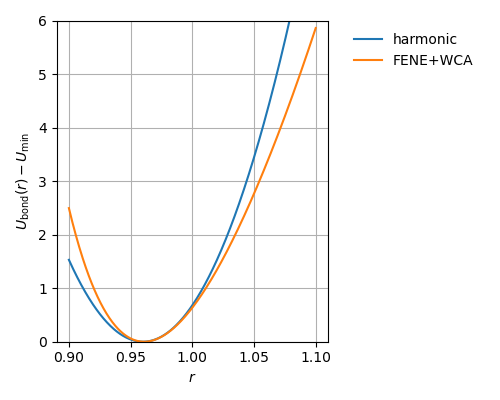
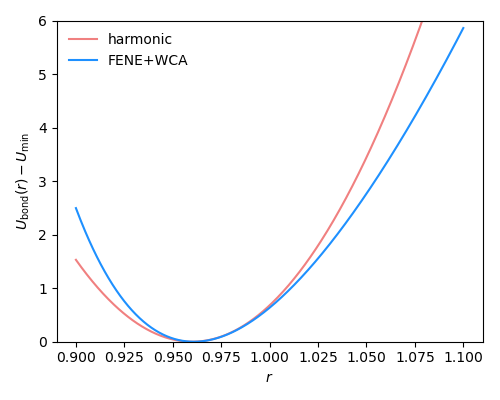
add matplotlib default light/dark

diff --git a/_static/myadmonitions.css b/_static/myadmonitions.css
@@ -1,0 +1,25 @@
+div.admonition-extra-credit {
+    border-left-color: rgba(0, 246, 16, 1);
+}
+
+div.admonition-extra-credit .admonition-title {
+    background-color: rgba(0, 246, 16, .1);
+}
+
+div.admonition-extra-credit .admonition-title:before {
+    color: rgba(0, 246, 16, 1);
+    content: '\f19d';
+}
+
+div.extra-credit {
+    border-left-color: rgba(var(--pst-color-success), 1);
+}
+
+div.extra-credit .admonition-title {
+    background-color: rgba(var(--pst-color-success), .1)
+}
+
+div.extra-credit .admonition-title:before {
+    color: rgba(var(--pst-color-success), 1);
+    content: '\f19d';
+}

diff --git a/_static/myfile.css b/_static/myfile.css
@@ -1,0 +1,31 @@
+h1,
+h2,
+h3,
+h4,
+h5,
+h6 {
+    font-weight: 700 !important;
+    /*color: #3c8cba !important;*/
+    /* margin: 0.2rem 0 0 0 ; */
+}
+
+h1 {
+    font-size: 2rem;
+}
+
+h2 {
+    font-size: 1.5rem;
+}
+
+h3 {
+    font-size: 1.2rem;
+}
+
+h4 {
+    font-size: 1.1rem;
+}
+
+p {
+    margin: 0.2rem 0 0 0;
+    text-align: justify;
+}

diff --git a/molecular-models-and-interactions/intramolecular-potentials.md b/molecular-models-and-interactions/intramolecular-potentials.md
@@ -106,6 +106,7 @@ This fixes the bond length to fluctuate around an average of $r_0$.
 :tags: [hide-cell]
 from myst_nb import glue
 import matplotlib.pyplot as plt
+plt.style.use(['../_matplotlib/book.mplstyle'])
 import numpy as np
 
 # Harmonic bond potential
@@ -123,25 +124,23 @@ r_values = np.linspace(0.5, 1.5, 100)
 U_values = harmonic_bond_potential(r_values, k, r0)
 F_values = harmonic_bond_force(r_values, k, r0)
 
-fig, axs = plt.subplots(1, 2, figsize=(5,2.5))
+fig, axs = plt.subplots(1, 2, figsize=(6,3.5))
 
-axs[0].plot(r_values, U_values)
-axs[0].axvline(x=r0, color='r', linestyle='--', label='$r_0$')
+axs[0].plot(r_values, U_values,c='lightcoral')
+axs[0].axvline(x=r0, linestyle='--',c='dodgerblue', label='$r_0$')
 axs[0].set_xlabel('$r$')
 axs[0].set_ylabel('$U_{\mathrm{bond}}(r)$')
 axs[0].set_title('Harmonic Bond Potential')
 axs[0].legend(frameon=False)
-axs[0].grid(True)
 
-axs[1].plot(r_values, F_values,c='green')
-axs[1].axvline(x=r0, color='r', linestyle='--', label='$r_0$')
+axs[1].plot(r_values, F_values,c='seagreen')
+axs[1].axvline(x=r0, linestyle='--',c='dodgerblue', label='$r_0$')
 axs[1].set_xlabel('$r$')
 axs[1].set_ylabel('$F_{\mathrm{bond}}(r)$')
 axs[1].set_title('Harmonic Bond Force')
 axs[1].legend(frameon=False)
-axs[1].grid(True)
-plt.tight_layout()
-plt.savefig('./_figures/harmonic_bond.png',transparent=True)
+
+plt.savefig('./_figures/harmonic_bond.png')
 ```
 
 ````{example} Harmonic bond force
@@ -158,7 +157,7 @@ If $r_{ij}>r_0$, the bond is streched past $r_0$ and particle $i$ moves toward $
 
 ```{figure} ./_figures/harmonic_bond.png
 :alt: Plot of the harmonic bond potential and force
-:width: 500px
+:width: 400px
 :align: center
 :name: bond-fig
 
@@ -185,6 +184,7 @@ Typical parameters:
 :tags: [hide-cell]
 from myst_nb import glue
 import matplotlib.pyplot as plt
+plt.style.use(['../_matplotlib/book.mplstyle'])
 import numpy as np
 
 # Define parameters for the potentials
@@ -207,17 +207,17 @@ V_fene_wca = V_fene
 r_rep = r[r<2**(1/6)]
 V_fene_wca[r<2**(1/6)] += 4*epsilon*((sigma/r_rep)**12-(sigma/r_rep)**6)+ epsilon
 
-fig, axs = plt.subplots(1, 1, figsize=(5,4))
+fig, axs = plt.subplots(1, 1)
 
 axs.plot(r, V_harmonic-np.min(V_harmonic),label='harmonic')
 axs.plot(r, V_fene_wca-np.min(V_fene_wca), label='FENE+WCA')
 axs.set_xlabel('$r$')
 axs.set_ylabel('$U_{\mathrm{bond}}(r)-U_\mathrm{min}$')
-axs.legend(frameon=False,bbox_to_anchor=(1.05, 1), loc='upper left')
-axs.grid(True)
+axs.legend()
+
 axs.set_ylim(0,6)
-plt.tight_layout()
-plt.savefig('./_figures/FENE_bond.png',transparent=True)
+
+plt.savefig('./_figures/FENE_bond.png')
 ```
 
 
@@ -316,6 +316,7 @@ For specific models and force fields, always check if the angles are given in de
 :tags: [hide-cell]
 from myst_nb import glue
 import matplotlib.pyplot as plt
+plt.style.use(['../_matplotlib/book.mplstyle'])
 import numpy as np
 
 # Define the range of angles (in radians)
@@ -337,7 +338,7 @@ cosine_potential = k_cosine * (1 - np.cos(theta - theta_0_cosine)) # Often defin
 cosine_squared_potential = k_cosine_squared * (1 - np.cos(theta - theta_0_cosine_squared)**2) # Often defined as 1-cos^2(theta) for a minimum at theta=theta_0
 
 # Plotting
-plt.figure(figsize=(5, 4))
+plt.figure()
 plt.plot(theta, harmonic_potential, label='Harmonic Potential')
 plt.plot(theta, cosine_potential, label='Cosine Potential')
 plt.plot(theta, cosine_squared_potential, label='Cosine Squared Potential')
@@ -345,10 +346,9 @@ plt.plot(theta, cosine_squared_potential, label='Cosine Squared Potential')
 plt.xlabel('Angle (radians)')
 plt.ylabel('Potential Energy')
 plt.title('Comparison of Angle Potentials')
-plt.legend(frameon=False)
-plt.grid(True)
-plt.tight_layout()
-plt.savefig('./_figures/angle_potentials.png',transparent=True)
+plt.legend()
+
+plt.savefig('./_figures/angle_potentials.png')
 ```
 
 ```{figure} ./_figures/angle_potentials.png

diff --git a/statmech-thermo/statmech-ergodicity.md b/statmech-thermo/statmech-ergodicity.md
@@ -6,6 +6,7 @@ Even though most of the simulations we will talk about are classical, it is actu
 
 ```{note}
 _The Phase Space:_ A classical system is composed of many particles with position, qi, and momentum, pi, denoted as q and p for short. This is the classical phase space. Any conservative mechanical systems can be characterized by a function, H(q, p; t), the Hamiltonian of the system which determines the energy as a function of the coordinates.
+
 ```
 
 Suppose that we have a system with fixed N and V (volume). Then:
@@ -33,7 +34,16 @@ The momentum part of the Maxwell-Boltzmann distribution (the Maxwell distributio
 
 In experiments one typically considers a large number of successive times (t1 .... tM) to make measurements, each of which reveals the current state of the system. Then <A> = \sigma_i A_iP_i where $Pi = ni/M$ and ni is the number of times the system is in state _i_ out of M total states. This is a _time average_ over a single system because the values of ni were obtained by successive observations. We will model that by a classical simulation for a fixed number of particles and a given potential energy function V(R) isolated from any heat bath. Newton tells us the system will evolve according to $\vec{F} = -\nabla V= m\vec{a}$. We assign initial positions and velocities (implying an initial total energy and momentum). If we let it evolve what will happen? Will it go to the canonical distribution?
 
-First, a few constants of motion maybe be known: energy, momentum, number of particles, etc. These will not change but in a system of more than 2 particles the number of degrees of freedom is greater than the number of constants of motion.  Gibbs introduced the artifice of a large number of replicas of the system (_i.e.,_ an ensemble) and imagined them to trace out paths on the energy surface. Basically, we could follow A(t) for one system for infinite time and average <Atime\>, or just consider the value of A for each member of the ensemble and average<Aens\>. Under certain conditions (if the system is ergodic) one should be the same value. Gibbs adopted the view from the outset that this was only a device to calculate the _probable behavior of a system_.
+First, a few constants of motion maybe be known: energy, momentum, number of particles, etc. These will not change but in a system of more than 2 particles the number of degrees of freedom is greater than the number of constants of motion.  Gibbs introduced the artifice of a large number of replicas of the system (_i.e.,_ an ensemble) and imagined them to trace out paths on the energy surface. Basically, we could follow A(t) for one system for infinite time and average <Atime\>, or just consider the value of A for each member of the ensemble and average<Aens\>. Under certain conditions (if the system is ergodic, see {numref}`ergodic-2-fig`) one should be the same value. Gibbs adopted the view from the outset that this was only a device to calculate the _probable behavior of a system_.
+
+```{figure} ./_figures/ergodic.png
+:alt: Illustration of phase space with ergodic and non-ergodic trajectory
+:width: 400px
+:align: center
+:name: ergodic-2-fig
+
+Illustration of phase space with a ergodic and non-ergodic trajectory.
+```
 
 In other words, instead of starting from a single initial condition, we start from the canonical distribution of positions and momentum. By Louiville Theorem, it is easy to show that this distribution is preserved. What we are doing in Molecular Dynamics, since we do not have the heat bath which gets most physical systems into equilibrium, is to assume that we can interchange the average over initial condition with the average over time. In an MD simulation, tMDsteps cannot go over infinite time, but hopefully an average of **long finite** tMDsteps is satisfactory. Thus, <Atime\>= (1/MDsteps) \sigma_t=1,MDsteps A(t).
 

diff --git a/statmech-thermo/ensembles.md b/statmech-thermo/ensembles.md
@@ -166,7 +166,7 @@ An **ensemble** is the collection of all microstates consistent with the given c
 :align: center
 :name: ergodic-fig
 
-Illustration of ergodic vs. non-ergodic.
+Illustration of ergodic vs. non-ergodic trajectories.
 
 ```
 
